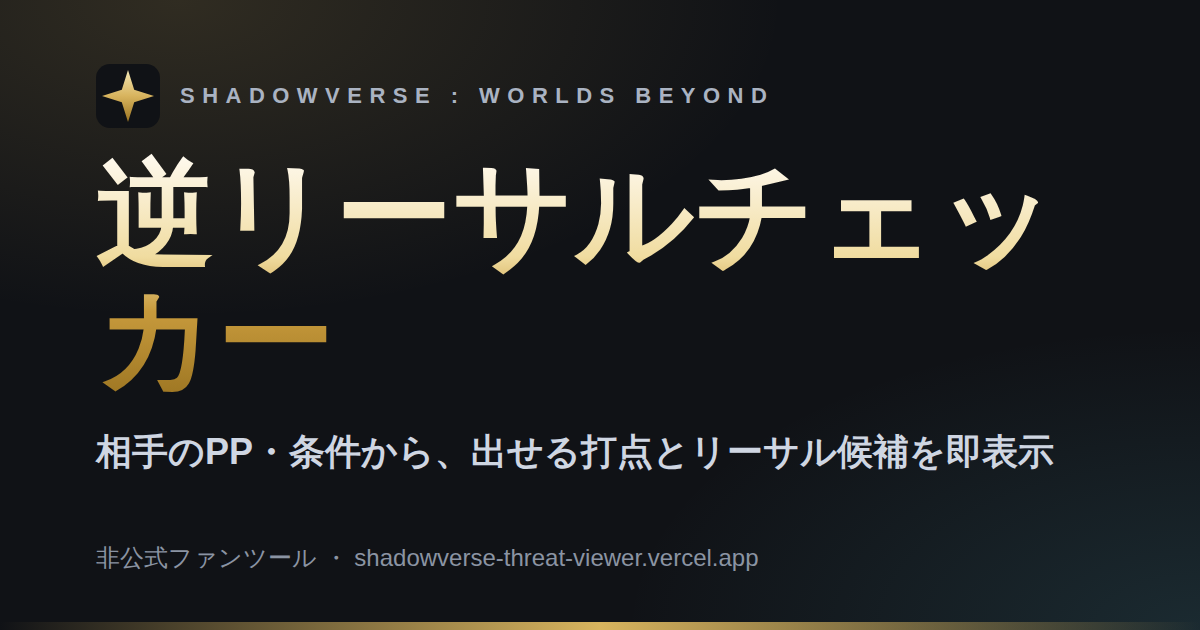
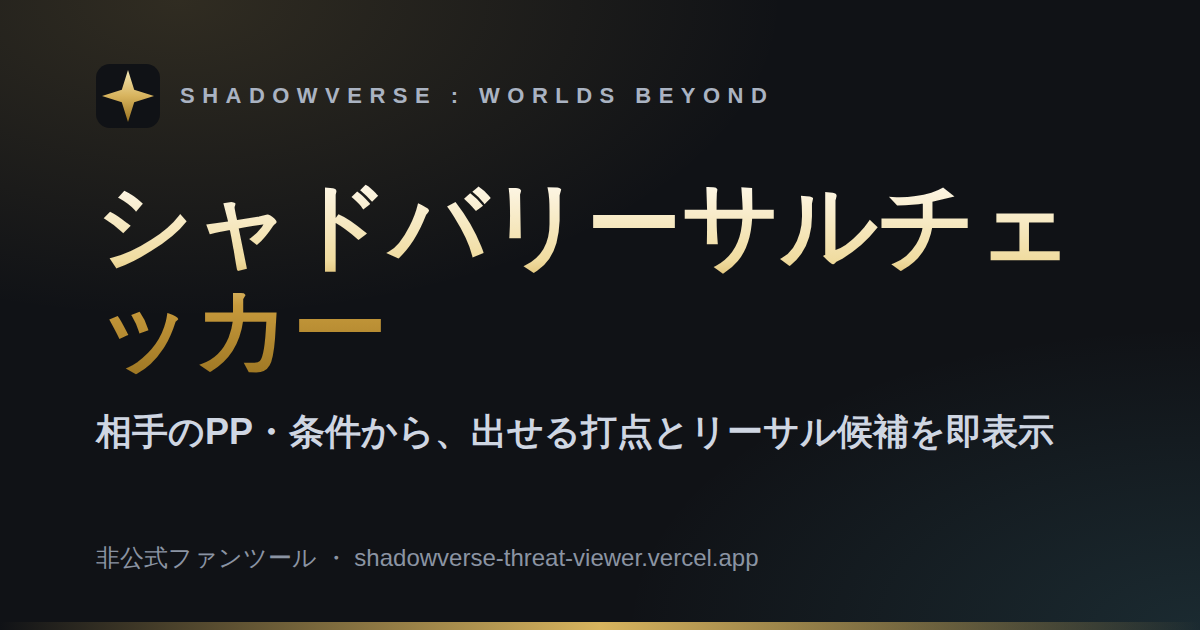
Rename app title to シャドバリーサルチェッカー
Change the Japanese title from 逆リーサルチェッカー to シャドバリーサルチェッカー
across the UI (app.js), page <title>/meta/OGP tags, descriptions, README,
package.json, and mockups. Regenerate og-image.png with the new title.

https://claude.ai/code/session_01PZkyFg9FWiecBwEy3q5WFv

Changed region(s): [[0.0617, 0.2413, 0.8942, 0.4524], [0.0617, 0.6635, 0.8942, 0.754], [0.0925, 0.4524, 0.3392, 0.6333]]

diff --git a/legal.html b/legal.html
@@ -16,7 +16,7 @@
       })();
     </script>
     <title>利用規約・プライバシーポリシー | Shadowverse Threat Viewer</title>
-    <meta name="description" content="Shadowverse Threat Viewer（逆リーサルチェッカー）の利用規約とプライバシーポリシー。非公式ファンツールの利用条件・情報の取り扱いについて。" />
+    <meta name="description" content="Shadowverse Threat Viewer（シャドバリーサルチェッカー）の利用規約とプライバシーポリシー。非公式ファンツールの利用条件・情報の取り扱いについて。" />
     <link rel="canonical" href="https://shadowverse-threat-viewer.vercel.app/legal.html" />
     <meta name="theme-color" content="#101216" />
     <link rel="icon" href="favicon.svg" type="image/svg+xml" />
@@ -26,7 +26,7 @@
     <meta property="og:site_name" content="Shadowverse Threat Viewer" />
     <meta property="og:locale" content="ja_JP" />
     <meta property="og:title" content="利用規約・プライバシーポリシー | Shadowverse Threat Viewer" />
-    <meta property="og:description" content="Shadowverse Threat Viewer（逆リーサルチェッカー）の利用規約とプライバシーポリシー。" />
+    <meta property="og:description" content="Shadowverse Threat Viewer（シャドバリーサルチェッカー）の利用規約とプライバシーポリシー。" />
     <meta property="og:url" content="https://shadowverse-threat-viewer.vercel.app/legal.html" />
     <meta property="og:image" content="https://shadowverse-threat-viewer.vercel.app/og-image.png" />
     <meta name="twitter:card" content="summary_large_image" />
@@ -62,7 +62,7 @@
     <main class="doc">
       <div class="doc-head">
         <h1>利用規約・プライバシーポリシー</h1>
-        <p>本ページは「Shadowverse Threat Viewer（逆リーサルチェッカー）」（以下「当サイト」といいます）の利用規約およびプライバシーポリシーを定めるものです。当サイトをご利用いただく前に、本ページの内容をご確認ください。</p>
+        <p>本ページは「Shadowverse Threat Viewer（シャドバリーサルチェッカー）」（以下「当サイト」といいます）の利用規約およびプライバシーポリシーを定めるものです。当サイトをご利用いただく前に、本ページの内容をご確認ください。</p>
         <p class="doc-meta">制定日：2026年6月13日 ／ 最終更新日：2026年6月13日</p>
       </div>
 

diff --git a/index.html b/index.html
@@ -15,8 +15,8 @@
         } catch (e) {}
       })();
     </script>
-    <title>逆リーサルチェッカー | Shadowverse: Worlds Beyond 非公式ツール</title>
-    <meta name="description" content="Shadowverse: Worlds Beyond の逆リーサルチェッカー。相手のPP・条件から、相手が出せる打点とリーサル候補カードを即座に表示する非公式ファンツールです。" />
+    <title>シャドバリーサルチェッカー | Shadowverse: Worlds Beyond 非公式ツール</title>
+    <meta name="description" content="Shadowverse: Worlds Beyond のシャドバリーサルチェッカー。相手のPP・条件から、相手が出せる打点とリーサル候補カードを即座に表示する非公式ファンツールです。" />
     <link rel="canonical" href="https://shadowverse-threat-viewer.vercel.app/" />
     <meta name="theme-color" content="#101216" />
     <link rel="icon" href="favicon.svg" type="image/svg+xml" />
@@ -25,12 +25,12 @@
     <meta property="og:type" content="website" />
     <meta property="og:site_name" content="Shadowverse Threat Viewer" />
     <meta property="og:locale" content="ja_JP" />
-    <meta property="og:title" content="逆リーサルチェッカー | Shadowverse: Worlds Beyond 非公式ツール" />
+    <meta property="og:title" content="シャドバリーサルチェッカー | Shadowverse: Worlds Beyond 非公式ツール" />
     <meta property="og:description" content="相手のPP・条件から、相手が出せる打点とリーサル候補カードを即座に表示する非公式ファンツール。" />
     <meta property="og:url" content="https://shadowverse-threat-viewer.vercel.app/" />
     <meta property="og:image" content="https://shadowverse-threat-viewer.vercel.app/og-image.png" />
     <meta name="twitter:card" content="summary_large_image" />
-    <meta name="twitter:title" content="逆リーサルチェッカー | Shadowverse: Worlds Beyond 非公式ツール" />
+    <meta name="twitter:title" content="シャドバリーサルチェッカー | Shadowverse: Worlds Beyond 非公式ツール" />
     <meta name="twitter:description" content="相手のPP・条件から、相手が出せる打点とリーサル候補カードを即座に表示する非公式ファンツール。" />
     <meta name="twitter:image" content="https://shadowverse-threat-viewer.vercel.app/og-image.png" />
     <link rel="preconnect" href="https://shadowverse-wb.com" />

diff --git a/contact.html b/contact.html
@@ -16,7 +16,7 @@
       })();
     </script>
     <title>お問い合わせ | Shadowverse Threat Viewer</title>
-    <meta name="description" content="Shadowverse Threat Viewer（逆リーサルチェッカー）へのお問い合わせ。バグ報告・機能要望・使い方の質問はこちらから。" />
+    <meta name="description" content="Shadowverse Threat Viewer（シャドバリーサルチェッカー）へのお問い合わせ。バグ報告・機能要望・使い方の質問はこちらから。" />
     <link rel="canonical" href="https://shadowverse-threat-viewer.vercel.app/contact.html" />
     <meta name="theme-color" content="#101216" />
     <link rel="icon" href="favicon.svg" type="image/svg+xml" />
@@ -62,7 +62,7 @@
     <main class="doc">
       <div class="doc-head">
         <h1>お問い合わせ</h1>
-        <p>Shadowverse Threat Viewer（逆リーサルチェッカー）に関するお問い合わせはこちらからお送りください。</p>
+        <p>Shadowverse Threat Viewer（シャドバリーサルチェッカー）に関するお問い合わせはこちらからお送りください。</p>
       </div>
 
       <section class="doc-section">

diff --git a/official.html b/official.html
@@ -15,8 +15,8 @@
         } catch (e) {}
       })();
     </script>
-    <title>逆リーサルチェッカー（公式画像版） | Shadowverse: Worlds Beyond 非公式ツール</title>
-    <meta name="description" content="Shadowverse Threat Viewer（逆リーサルチェッカー）の公式カード画像版。" />
+    <title>シャドバリーサルチェッカー（公式画像版） | Shadowverse: Worlds Beyond 非公式ツール</title>
+    <meta name="description" content="Shadowverse Threat Viewer（シャドバリーサルチェッカー）の公式カード画像版。" />
     <meta name="robots" content="noindex, follow" />
     <link rel="canonical" href="https://shadowverse-threat-viewer.vercel.app/" />
     <meta name="theme-color" content="#101216" />

diff --git a/app.js b/app.js
@@ -53,7 +53,7 @@ const displayCardPPOverride = new Map([
 
 const ui = {
   ja: {
-    title: "逆リーサルチェッカー",
+    title: "シャドバリーサルチェッカー",
     classControl: "相手クラス",
     formatControl: "フォーマット",
     formatHelp: "ローテーションまたはアンリミテッドで絞り込みます。",

diff --git a/mockups/mockup-a.html b/mockups/mockup-a.html
@@ -93,7 +93,7 @@
   <div class="topbar">
     <div>
       <p class="eyebrow">相手リーサル確認</p>
-      <h1>逆リーサルチェッカー</h1>
+      <h1>シャドバリーサルチェッカー</h1>
     </div>
     <div class="hp"><small>自分HP</small><b>11</b></div>
   </div>

diff --git a/mockups/mockup-d.html b/mockups/mockup-d.html
@@ -87,7 +87,7 @@
   <div class="topbar">
     <div>
       <p class="eyebrow">相手リーサル確認</p>
-      <h1>逆リーサルチェッカー</h1>
+      <h1>シャドバリーサルチェッカー</h1>
     </div>
     <div class="hp"><small>HP</small><b>11</b></div>
   </div>

diff --git a/README.md b/README.md
@@ -1,4 +1,4 @@
-# Shadowverse Threat Viewer（逆リーサルチェッカー）
+# Shadowverse Threat Viewer（シャドバリーサルチェッカー）
 
 「Shadowverse: Worlds Beyond」向けの**非公式**ファンツール。相手のPP（経過ターン）と
 条件から、相手が出せるリーダー打点・リーサル候補カードを一覧表示します。
